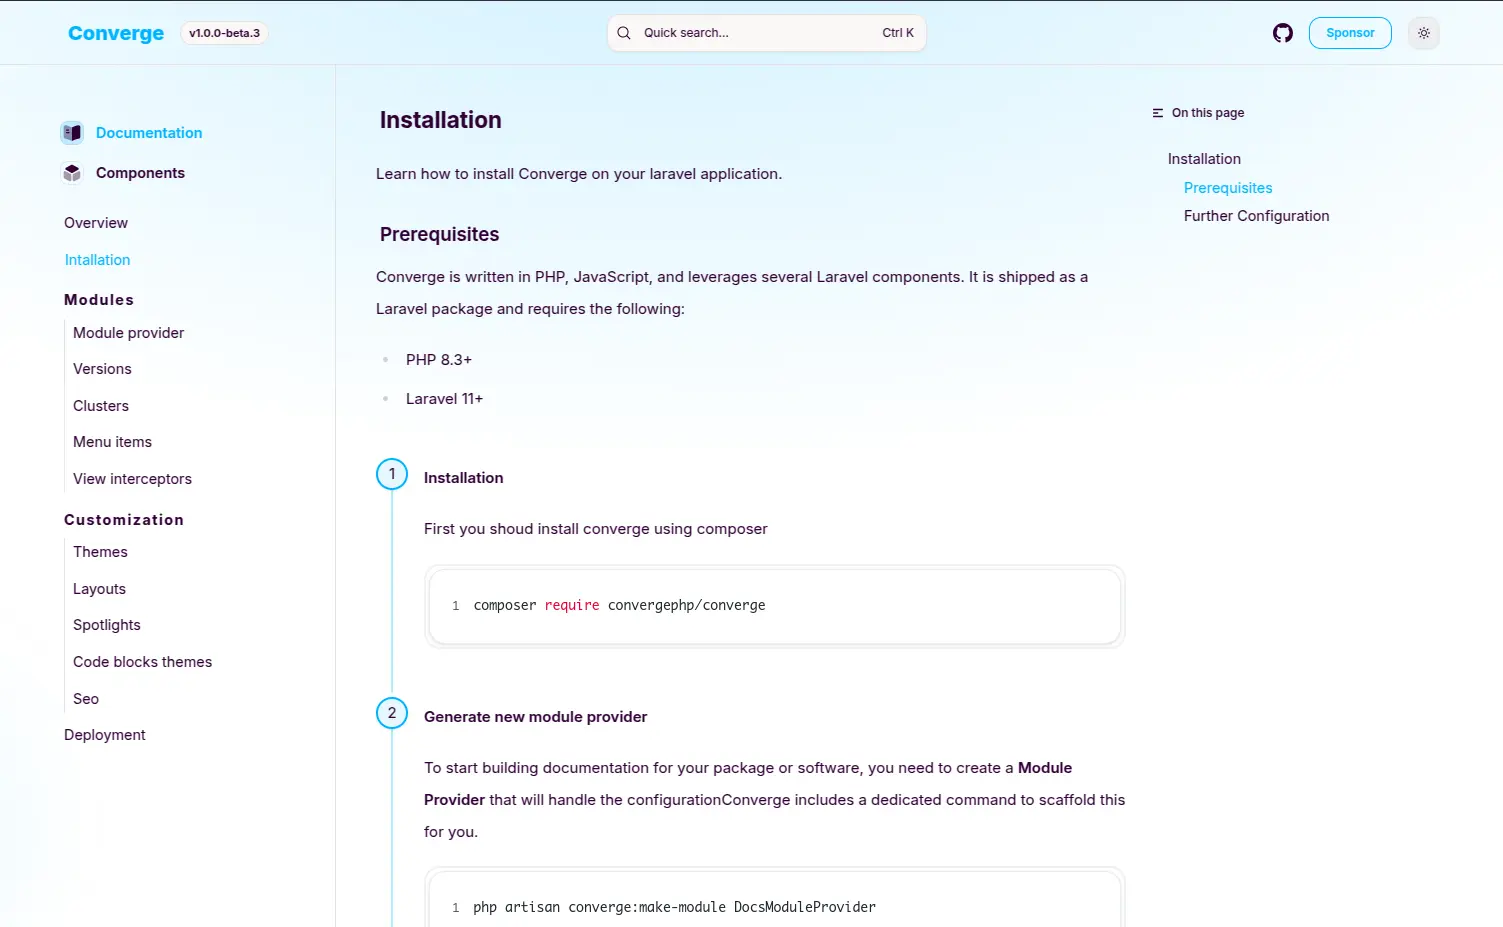
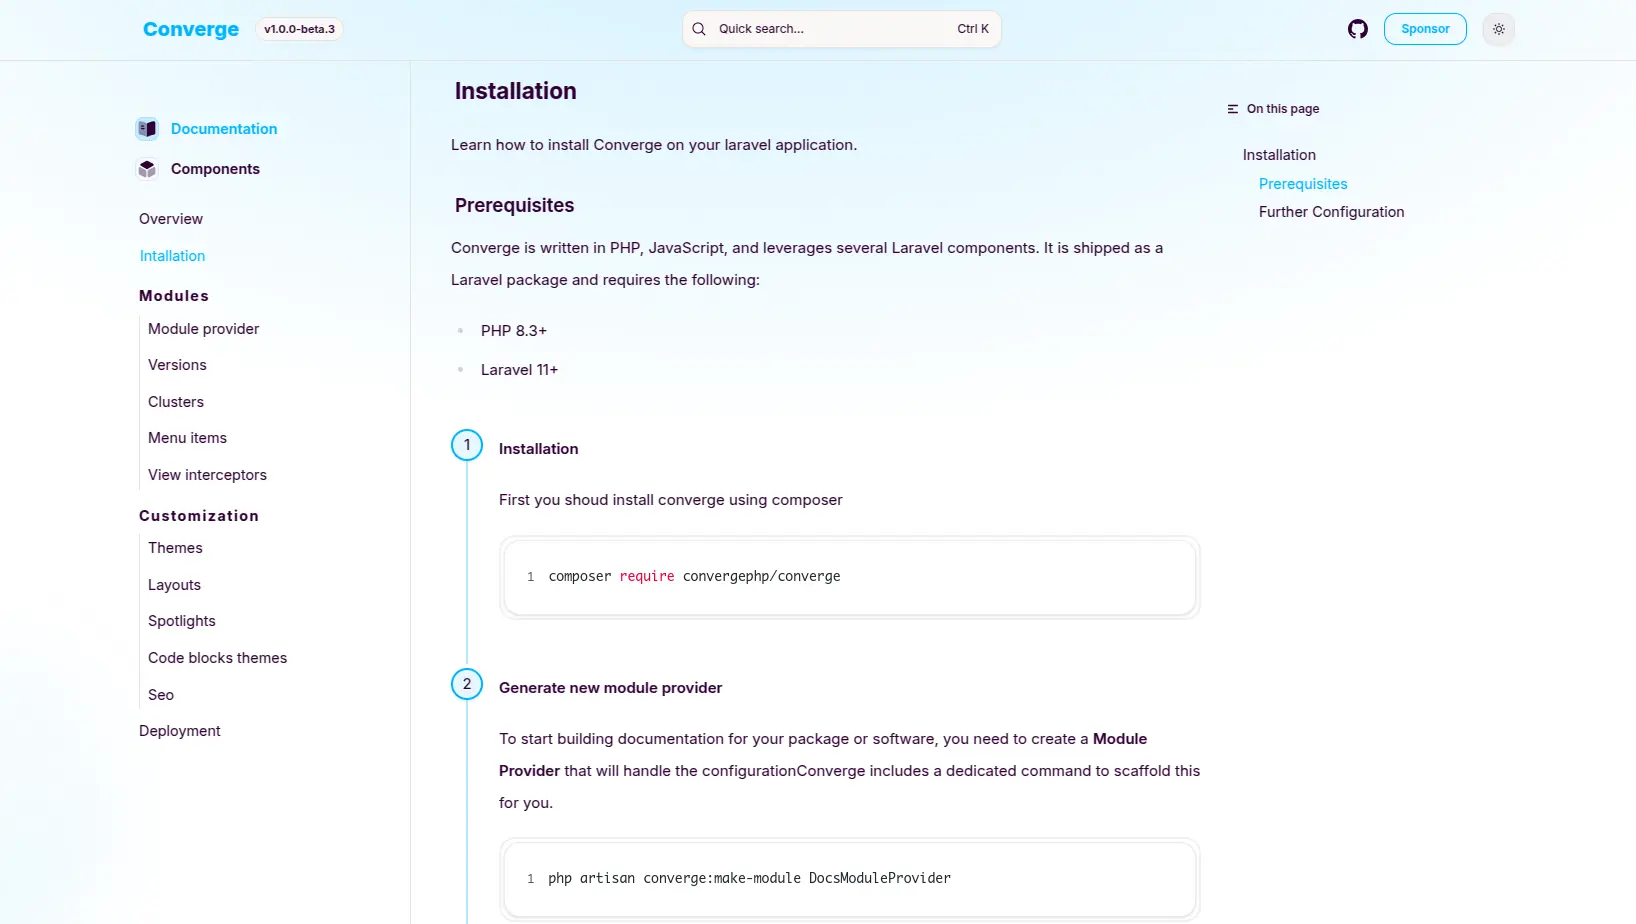
redesign hero and navbare sections

diff --git a/resources/css/app.css b/resources/css/app.css
@@ -68,6 +68,15 @@
     --color-accent: var(--color-neutral-800);
     --color-accent-content: var(--color-neutral-800);
     --color-accent-foreground: var(--color-white);
+
+    /* --animate-border: border border 4s linear infinite;
+    @keyframes border {
+          0% ,
+          100% {
+            --animate-border: 360deg;
+          }
+    } */
+
 }
 
 @layer theme {
@@ -76,6 +85,13 @@
         --color-accent-content: var(--color-white);
         --color-accent-foreground: var(--color-neutral-800);
     }
+}
+
+
+@property --border-angle {
+    inherits: false;
+    initial-value: 0deg;
+    syntax: '<angle>';
 }
 
 @layer base {
@@ -107,6 +123,20 @@
     /* For Internet Explorer and Edge */
     .scrollbar-hidden {
         -ms-overflow-style: none;
+    }
+}
+
+.animate-border {
+    --border-angle: 0turn;
+    animation: border-rotate 3s linear infinite;
+}
+
+@keyframes border-rotate {
+    from {
+        --border-angle: 0turn;
+    }
+    to {
+        --border-angle: 1turn;
     }
 }
 

diff --git a/resources/views/components/partials/navbar.blade.php b/resources/views/components/partials/navbar.blade.php
@@ -1,9 +1,16 @@
-<x-banner />
-<header class="border-base-300/30 bg-base-200 sticky inset-x-0 top-0 z-50 border-b"
-        x-data="{ mobileMenuOpen: false, toolkitOpen: false, solutionsOpen: false }">
+{{-- <x-banner class="sticky top-0 flex w-full bg-red-500" /> --}}
+<header class="sticky inset-x-0 top-0 z-50 transition-all duration-300"
+        x-data="{
+            mobileMenuOpen: false,
+            toolkitOpen: false,
+            solutionsOpen: false,
+            scrolled: false
+        }">
     <div class="relative flex justify-center">
-        <div class="supports-backdrop-blur:bg-black/10 relative w-full max-w-7xl px-3">
-            <nav class="flex min-h-[5rem] items-center justify-between"
+        <div x-init="window.addEventListener('scroll', () => { scrolled = window.scrollY > 10 })"
+             :class="{ 'bg-transparent': !scrolled, 'backdrop-blur-md bg-base-100/70 my-2 rounded-3xl shadow-md': scrolled }"
+             class="relative mx-2 w-full max-w-7xl px-3 md:mx-0">
+            <nav class="flex items-center justify-between md:min-h-[5rem]"
                  aria-label="Global">
                 {{-- LOGO --}}
                 <a href="/"
@@ -16,40 +23,10 @@
                      class="text-base-content hover:text-base-content/80 hidden min-h-[5rem] flex-1 items-center justify-start px-4 text-sm font-medium transition md:flex">
                     <x-navbar.link :active="request()->routeIs('converge-docs')"
                                    :href="route('converge-docs')">Documentation</x-navbar.link>
-                    {{-- <x-navbar.dropdown-menu
-                                            label="ToolKit">
-                        <div class="grid grid-cols-2 gap-4">
-                            <x-navbar.card-link :url="route('products.show', ['product' => 'components'])"
-                                                title="Blade Components"
-                                                description="Visite our beautiful blade components">
-                            </x-navbar.card-link>
-                            <x-navbar.card-link :url="route('products.show', ['product' => 'layouts-themes'])"
-                                                title="Layouts"
-                                                description="Create a powerfull layouts">
-                            </x-navbar.card-link>
-                        </div>
-                    </x-navbar.dropdown-menu> --}}
 
                     <x-navbar.link href="{{ route('products.index') }}"
                                    :active="request()->routeIs('products.index')"
-                                   wire:navigate.hover>toolkits</x-navbar.link>
-
-                    {{-- <x-navbar.dropdown-menu label="Solutions">
-                        <div class="grid grid-cols-2 gap-4">
-                            <x-navbar.card-link title="Documentation"
-                                                :active="request()->routeIs('solutions.documentation')"
-                                                :url="route('solutions.documentation')"
-                                                wire:navigate.hover
-                                                description="starts documentating your software right away ">
-                            </x-navbar.card-link>
-                            <x-navbar.card-link title="Blogging"
-                                                :active="request()->routeIs('solutions.bloggin')"
-                                                :url="route('solutions.blogging')"
-                                                wire:navigate.hover
-                                                description="Create a powerfull blog just in minutes">
-                            </x-navbar.card-link>
-                        </div>
-                    </x-navbar.dropdown-menu> --}}
+                                   wire:navigate.hover>Toolkits</x-navbar.link>
 
                     <x-navbar.link href="{{ route('roadmap') }}"
                                    :active="request()->routeIs('roadmap')"
@@ -66,14 +43,14 @@
                               action="{{ route('logout') }}">
                             @csrf
                             <button type="submit"
-                                    class="btn btn-sm btn-square bg-base-300 rounded-sm border border-gray-400/20 md:px-8">
+                                    class="btn btn-sm btn-square bg-base-300/80 rounded-sm border border-gray-400/20 md:px-8">
                                 <span class="hidden md:block">{{ __('Logout') }}</span>
                                 <x-iconsax-bul-logout class="w-5 md:hidden" />
                             </button>
                         </form>
                         <a href="{{ route('boards.licenses') }}"
                            wire:navigate.hover
-                           class="btn btn-sm btn-square bg-base-300 rounded-sm border border-gray-400/20 md:max-w-fit md:px-8">
+                           class="btn btn-sm btn-square bg-base-300/80 rounded-sm border border-gray-400/20 md:max-w-fit md:px-8">
                             <span class="hidden md:block">Board</span>
                             <x-iconsax-bul-setting-2 class="w-5 md:hidden" />
                         </a>
@@ -82,7 +59,7 @@
                     @if (!Auth::check() && !Request()->routeIs('login') && !Request()->routeIs('register'))
                         <a href="{{ route('login') }}"
                            wire:navigate.hover
-                           class="btn btn-sm btn-square md:btn-link bg-base-300 btn-ghost rounded-sm border border-gray-400/20 px-0 no-underline md:!px-8">
+                           class="btn btn-sm btn-square md:btn-link bg-base-300/80 btn-ghost rounded-sm border border-gray-400/20 px-0 no-underline md:!px-8">
                             <span class="hidden md:inline">{{ __('Login') }}</span>
                             <x-iconsax-bul-login-1 class="w-5 md:hidden" />
                         </a>
@@ -91,10 +68,10 @@
                     {{-- MOBILE MENU TOGGLE BUTTON --}}
                     <div class="flex items-center md:hidden">
                         <button x-on:click="mobileMenuOpen = !mobileMenuOpen"
-                                class="btn btn-square btn-sm bg-base-300 rounded-sm"
+                                class="btn btn-square btn-sm bg-base-300/80 rounded-sm"
                                 aria-expanded="false"
                                 x-bind:aria-expanded="mobileMenuOpen.toString()">
-                            <span class="sr-only">Ouvrir le menu principal</span>
+                            <span class="sr-only">Open main menu</span>
                             {{-- Icon when menu is closed --}}
                             <svg x-show="!mobileMenuOpen"
                                  stroke="currentColor"
@@ -133,7 +110,7 @@
                  x-transition:leave="transition ease-in duration-150"
                  x-transition:leave-start="opacity-100 transform translate-y-0"
                  x-transition:leave-end="opacity-0 transform -translate-y-2"
-                 class="bg-base-200 absolute left-0 right-0 top-full mt-0 h-screen shadow-lg md:hidden"
+                 class="bg-base-200 absolute left-0 right-0 top-full mt-2 h-screen rounded-3xl shadow-lg md:hidden"
                  style="display: none;">
                 <div class="space-y-1 pb-3 pt-2">
                     {{-- Documentation Link --}}
@@ -145,7 +122,7 @@
                     <a href="{{ route('products.index') }}"
                        wire:navigate.hover
                        class="{{ request()->routeIs('products.index') ? '!text-primary' : 'text-base-content' }} hover:text-base-content/80 hover:bg-base-200 border-base-200 block rounded-md border-b px-4 py-3 text-base font-medium">
-                        toolkits
+                        Toolkits
                     </a>
 
                     <a href="{{ route('roadmap') }}"
@@ -153,48 +130,6 @@
                        class="{{ request()->routeIs('roadmap') ? '!text-primary' : 'text-base-content' }} hover:text-base-content/80 hover:bg-base-200 border-base-200 block rounded-md border-b px-4 py-3 text-base font-medium">
                         Roadmap
                     </a>
-
-                    {{-- Solutions Dropdown --}}
-                    {{-- <div>
-                        <button x-on:click="solutionsOpen = !solutionsOpen; toolkitOpen = false"
-                                class="text-base-content hover:text-base-content/80 hover:bg-base-200 flex w-full items-center justify-between px-4 py-3 text-base font-medium focus:outline-none">
-                            <span>Solutions</span>
-                            <svg x-bind:class="solutionsOpen ? 'transform rotate-180' : ''"
-                                 class="h-5 w-5 transition-transform duration-200"
-                                 xmlns="http://www.w3.org/2000/svg"
-                                 viewBox="0 0 20 20"
-                                 fill="currentColor">
-                                <path fill-rule="evenodd"
-                                      d="M5.293 7.293a1 1 0 011.414 0L10 10.586l3.293-3.293a1 1 0 111.414 1.414l-4 4a1 1 0 01-1.414 0l-4-4a1 1 0 010-1.414z"
-                                      clip-rule="evenodd" />
-                            </svg>
-                        </button>
-
-                        <div x-show="solutionsOpen"
-                             x-transition:enter="transition ease-out duration-200"
-                             x-transition:enter-start="opacity-0"
-                             x-transition:enter-end="opacity-100"
-                             x-transition:leave="transition ease-in duration-150"
-                             x-transition:leave-start="opacity-100"
-                             x-transition:leave-end="opacity-0"
-                             class="bg-base-200 mx-2 mb-2 rounded-md px-4 py-2"
-                             style="display: none;">
-                            <a href="{{ route('solutions.documentation') }}"
-                               wire:navigate.hover
-                               class="text-base-content hover:text-base-content/80 hover:bg-base-300 block rounded-md px-3 py-3 text-base font-medium">
-                                <div class="font-semibold">Documentation</div>
-                                <div class="text-base-content/50 mt-1 text-sm">Visite our beautiful blade components
-                                </div>
-                            </a>
-                            <a href="{{ route('solutions.blogging') }}"
-                               wire:navigate.hover
-                               class="text-base-content hover:text-base-content/80 hover:bg-base-300 block rounded-md px-3 py-3 text-base font-medium">
-                                <div class="font-semibold">Blogging</div>
-                                <div class="text-base-content/50 mt-1 text-sm">Create a powerfull blog just in minutes
-                                </div>
-                            </a>
-                        </div>
-                    </div> --}}
                 </div>
             </div>
         </div>

diff --git a/resources/views/components/partials/hero.blade.php b/resources/views/components/partials/hero.blade.php
@@ -19,7 +19,7 @@
         ],
     ];
 @endphp
-<div class="bg-base-200 min-h-screen overflow-hidden"
+<div class="bg-base-200 mx-auto min-h-screen max-w-5xl overflow-hidden"
      x-data="{
          showFileStructure: false,
          animating: false,
@@ -41,17 +41,23 @@
              data-aos-duration="300"
              class="mx-auto max-w-5xl text-center">
             <div class="mb-8 flex justify-center">
-                <div class="bg-primary/10 inline-flex items-center rounded-full px-4 py-2">
-                    <svg class="text-primary mr-2 h-5 w-5"
-                         viewBox="0 0 24 24"
-                         fill="none"
-                         stroke="currentColor"
-                         stroke-width="2">
-                        <path d="M12 6v6m0 0v6m0-6h6m-6 0H6"
-                              stroke-linecap="round"
-                              stroke-linejoin="round" />
-                    </svg>
-                    <span class="text-primary font-medium">Documentation Framework</span>
+                <div
+                     class="animate-border text-base-contet flex w-full max-w-sm items-center justify-center rounded-2xl border border-transparent text-white [background:linear-gradient(80deg,var(--color-primary),var(--color-base-100)_0%)_padding-box,conic-gradient(from_var(--border-angle),var(--color-base-300)_80%,_theme(colors.indigo.500)_86%,_theme(colors.indigo.300)_90%,_theme(colors.indigo.500)_94%,_theme(colors.slate.600/.48))_border-box]">
+                    <div class="p-5">
+                        <div class="flex items-center">
+                            <svg class="text-base-content mr-4 h-6 w-6"
+                                 xmlns="http://www.w3.org/2000/svg"
+                                 viewBox="0 0 256 256"
+                                 fill="currentColor">
+                                <path d="M232,80V200H160a32,32,0,0,0-32,32,32,32,0,0,0-32-32H24V80H96a32,32,0,0,1,32,32,32,32,0,0,1,32-32Z"
+                                      opacity="0.2"></path>
+                                <path
+                                      d="M232,72H160a40,40,0,0,0-32,16A40,40,0,0,0,96,72H24a8,8,0,0,0-8,8V200a8,8,0,0,0,8,8H96a24,24,0,0,1,24,24,8,8,0,0,0,16,0,24,24,0,0,1,24-24h72a8,8,0,0,0,8-8V80A8,8,0,0,0,232,72ZM96,192H32V88H96a24,24,0,0,1,24,24v88A39.81,39.81,0,0,0,96,192Zm128,0H160a39.81,39.81,0,0,0-24,8V112a24,24,0,0,1,24-24h64ZM89.6,43.19a48,48,0,0,1,76.8,0,8,8,0,0,1-12.79,9.62,32,32,0,0,0-51.22,0A8,8,0,1,1,89.6,43.19Z">
+                                </path>
+                            </svg>
+                            <span class="text-base-content font-medium">Documentation Framework</span>
+                        </div>
+                    </div>
                 </div>
             </div>
 
@@ -98,7 +104,7 @@
         <!-- Interactive Documentation Preview -->
         <div data-aos="fade-up"
              data-aos-duration="1000"
-             class="mx-auto max-w-6xl">
+             class="mx-auto max-w-5xl">
             <!-- Browser mockup -->
             <div
                  class="border-base-300 bg-base-100 overflow-hidden rounded-xl border bg-opacity-95 shadow-sm backdrop-blur-sm">
@@ -120,7 +126,7 @@
                                       stroke-linecap="round"
                                       stroke-linejoin="round" />
                             </svg>
-                            https://convergephp.com/docs/4.x
+                            https://convergephp.com/docs/1.x
                         </div>
                     </div>
                     <div class="flex items-center space-x-2">
@@ -141,7 +147,7 @@
                     </div>
                 </div>
 
-                <div class="bg-base-100 h-[250px] overflow-hidden p-4 md:h-[500px] lg:h-[700px]">
+                <div class="bg-base-100 h-[237px] overflow-hidden p-4 md:h-[430px] lg:h-[575px]">
                     <!-- Split view container with preserved space -->
                     <div class="border-base-300/50 flex h-full overflow-hidden rounded-lg border">
                         <!-- Docs preview with smooth transition -->
@@ -149,17 +155,16 @@
                              :class="showFileStructure ? 'w-0 opacity-0' : 'flex-1 opacity-100'"
                              :style="animating ? 'pointer-events: none;' : ''"
                              x-ref="docsPreview">
-                            <div class="h-full overflow-auto">
-                                <!-- Here we would normally have the actual documentation preview -->
+                            <div class="bg-base-100 h-full overflow-hidden">
                                 <div class="flex max-h-full w-full items-center justify-center overflow-hidden">
                                     <x-image srcPublicLight="images/hero-light.webp"
-                                             srcPublic="images/hero.webp"></x-image>
+                                             srcPublic="images/hero-dark.webp"></x-image>
                                 </div>
                             </div>
                         </div>
 
                         <!-- File structure visualization with smooth transition -->
-                        <div class="bg-base-200 overflow-hidden transition-all duration-500 ease-in-out"
+                        <div class="bg-base-200 overflow-hidden"
                              :class="showFileStructure ? 'flex-1 opacity-100' : 'w-0 opacity-0'"
                              :style="animating ? 'pointer-events: none;' : ''">
                             <div class="h-full overflow-auto p-6">

diff --git a/resources/views/components/partials/features.blade.php b/resources/views/components/partials/features.blade.php
@@ -4,7 +4,7 @@
         <div class="bg-primary animate-float-subtle absolute right-1/4 top-1/3 h-96 w-96 rounded-full blur-3xl"></div>
     </div>
 
-    <div class="container mx-auto max-w-7xl px-4 sm:px-6">
+    <div class="container mx-auto max-w-5xl px-4 sm:px-6">
         <!-- Section Titles -->
         {{-- ****************** Section Titles ********************** --}}
         <div class="mb-20 text-center"
@@ -33,7 +33,7 @@
                               imageAlt="Blade Components" />
 
         {{-- ****************** Core features grid ********************** --}}
-        <div class="mb-20 grid grid-cols-1 gap-10 md:grid-cols-2 lg:grid-cols-3">
+        <div class="mb-20 grid grid-cols-1 gap-2 md:grid-cols-2 lg:grid-cols-3">
             {{-- Feature 1 - Customizable Themes --}}
             <x-feature-card title="Customizable Themes"
                             description="Transform your application's appearance with powerful theming options that adapt to your brand identity with minimal effort."
@@ -114,9 +114,9 @@
                         solution the perfect choice for your projects.</p>
                 </div>
 
-                <div class="mb-20 space-y-8">
+                <div class="mb-20 space-y-4">
                     {{-- Feature row 1 --}}
-                    <div class="grid grid-cols-1 gap-8 lg:grid-cols-2"
+                    <div class="grid grid-cols-1 gap-4 lg:grid-cols-2"
                          data-aos="fade-up"
                          data-aos-duration="800">
 
@@ -158,7 +158,7 @@
                     </div>
 
                     {{-- Feature row 2 --}}
-                    <div class="grid grid-cols-1 gap-8 lg:grid-cols-2"
+                    <div class="grid grid-cols-1 gap-4 lg:grid-cols-2"
                          data-aos="fade-up"
                          data-aos-duration="800"
                          data-aos-delay="100">

diff --git a/resources/views/components/image.blade.php b/resources/views/components/image.blade.php
@@ -130,18 +130,18 @@
          x-transition:leave-start="opacity-100"
          x-transition:leave-end="opacity-0"
          class="fixed inset-0 z-40 bg-black/80 backdrop-blur-sm"
-         x-on:click="toggleZoom"
+         x-on:click="toggleZoom--"
          style="display: none;"
          aria-hidden="true"></div>
 
     <!-- Image container -->
     <div
          class="bg-base-100/50 border-base-300 overflow-hidden border shadow-sm transition-all duration-200 hover:shadow-md">
-        <div class="relative flex h-full w-full flex-col justify-start overflow-hidden">
-            <img x-on:click="toggleZoom"
+        <div class="relative flex min-h-full w-full flex-col justify-start overflow-hidden">
+            <img x-on:click="toggleZoom--"
                  :src="currentSrc"
                  :alt="imgAlt"
-                 class="h-full w-full flex-grow cursor-zoom-in object-cover transition-transform duration-200" />
+                 class="h-full flex-grow cursor-zoom-in object-cover transition-transform duration-200" />
         </div>
     </div>
 

diff --git a/resources/views/products/show.blade.php b/resources/views/products/show.blade.php
@@ -10,7 +10,7 @@
         </div>
 
         {{-- Tabs: Display thumbnails --}}
-        <div class="mx-auto max-w-7xl">
+        <div class="mx-auto max-w-5xl">
             <div class="flex flex-col"
                  x-data="{ activeTab: '{{ $product->thumbnails->first()->name ?? 'default' }}' }">
                 <div class="scrollbar-hidden mb-4 w-full overflow-x-auto">

diff --git a/resources/views/products/index.blade.php b/resources/views/products/index.blade.php
@@ -1,5 +1,5 @@
 <x-layout>
-    <div class="mx-auto max-w-7xl px-2 py-2 md:py-6">
+    <div class="mx-auto max-w-5xl px-2 py-2 md:py-6">
         {{-- HEADER SECTION --}}
         <section class="mb-12">
             <div class="w-full overflow-hidden">

diff --git a/resources/views/components/partials/team.blade.php b/resources/views/components/partials/team.blade.php
@@ -1,4 +1,4 @@
-<section class="mx-auto max-w-7xl px-2">
+<section class="mx-auto max-w-7xl px-2 py-4 md:py-10">
     <div class="mx-auto w-full py-8 text-center lg:py-16">
 
         {{-- TITLE --}}
